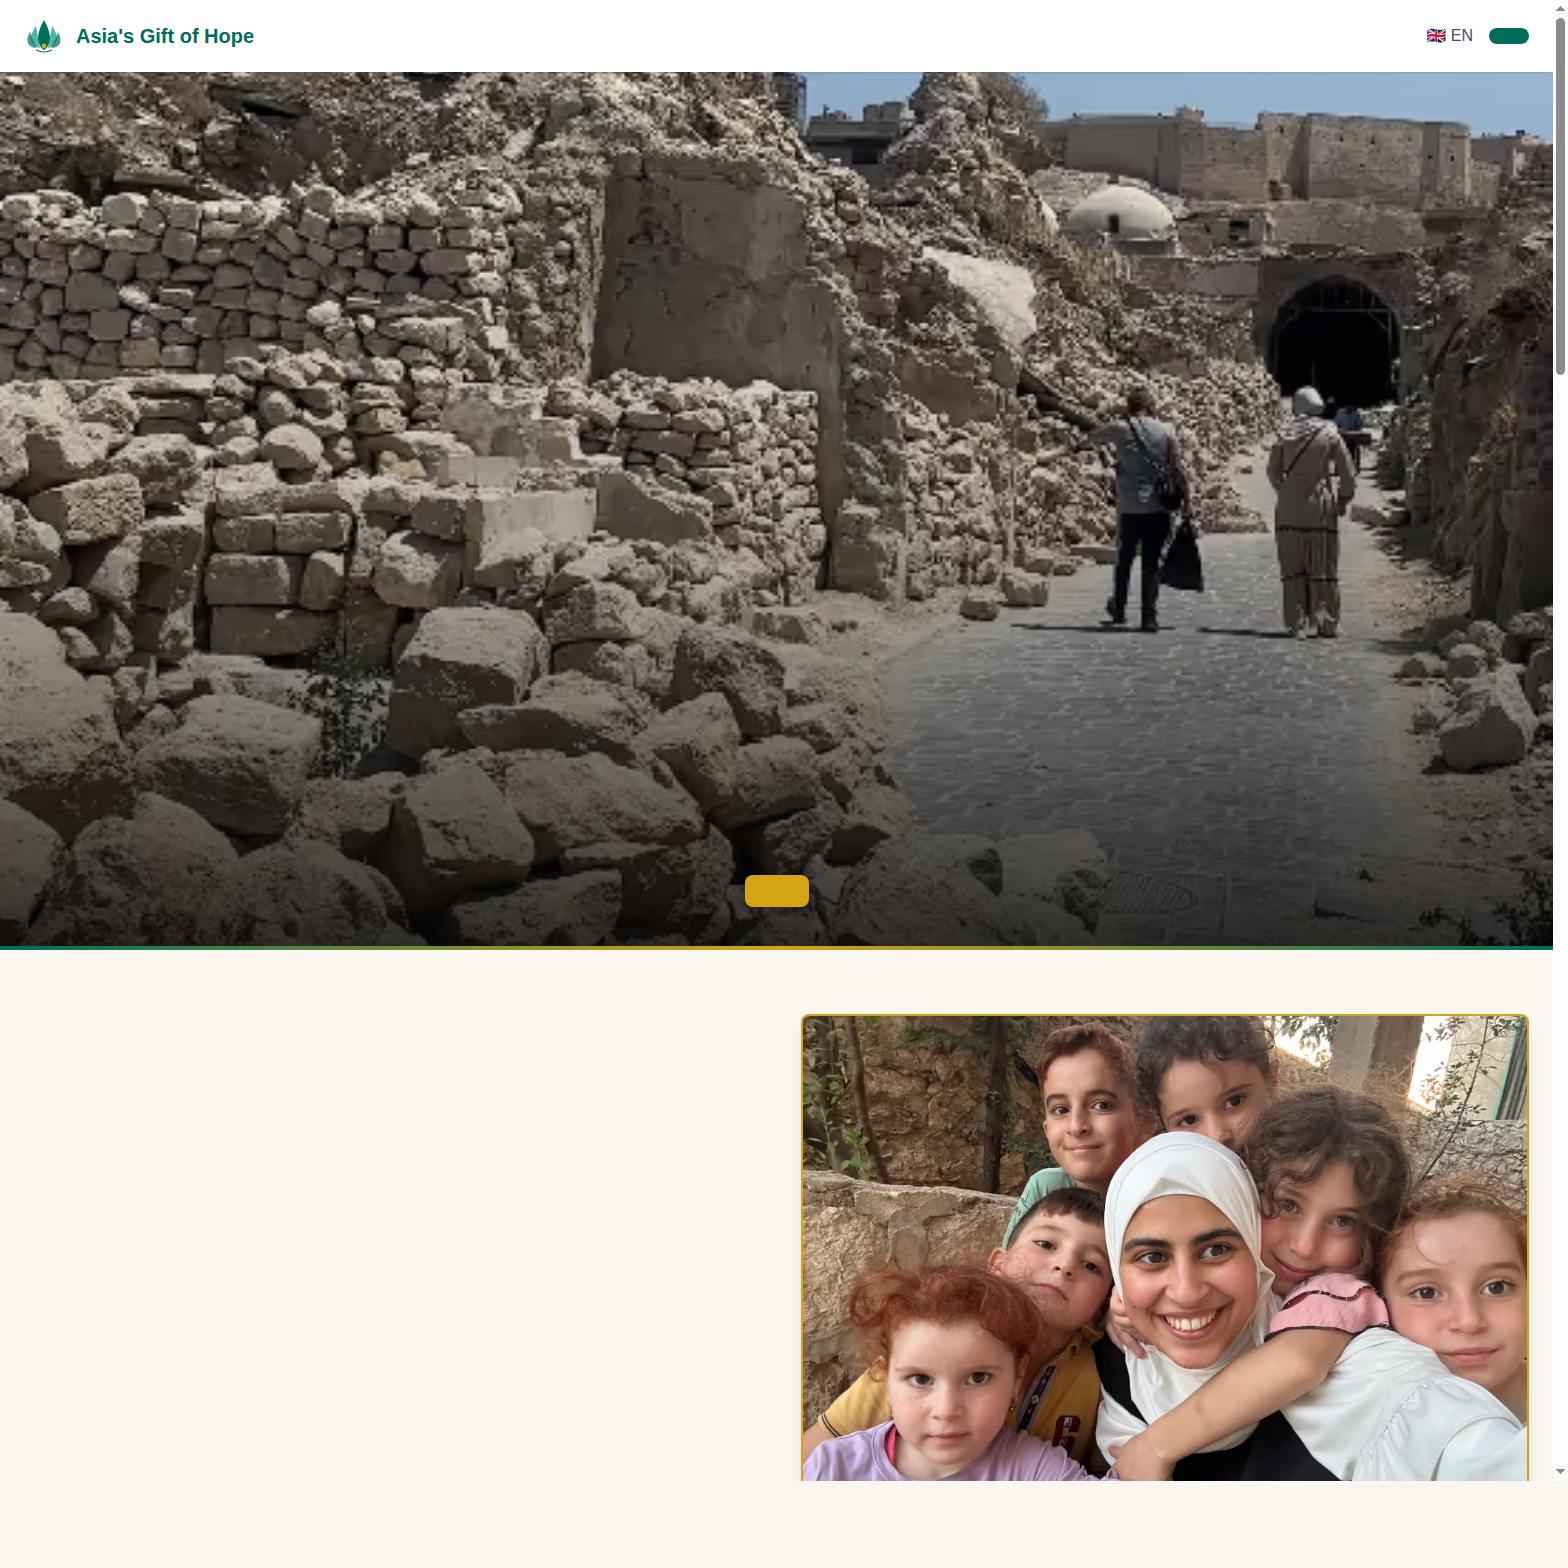
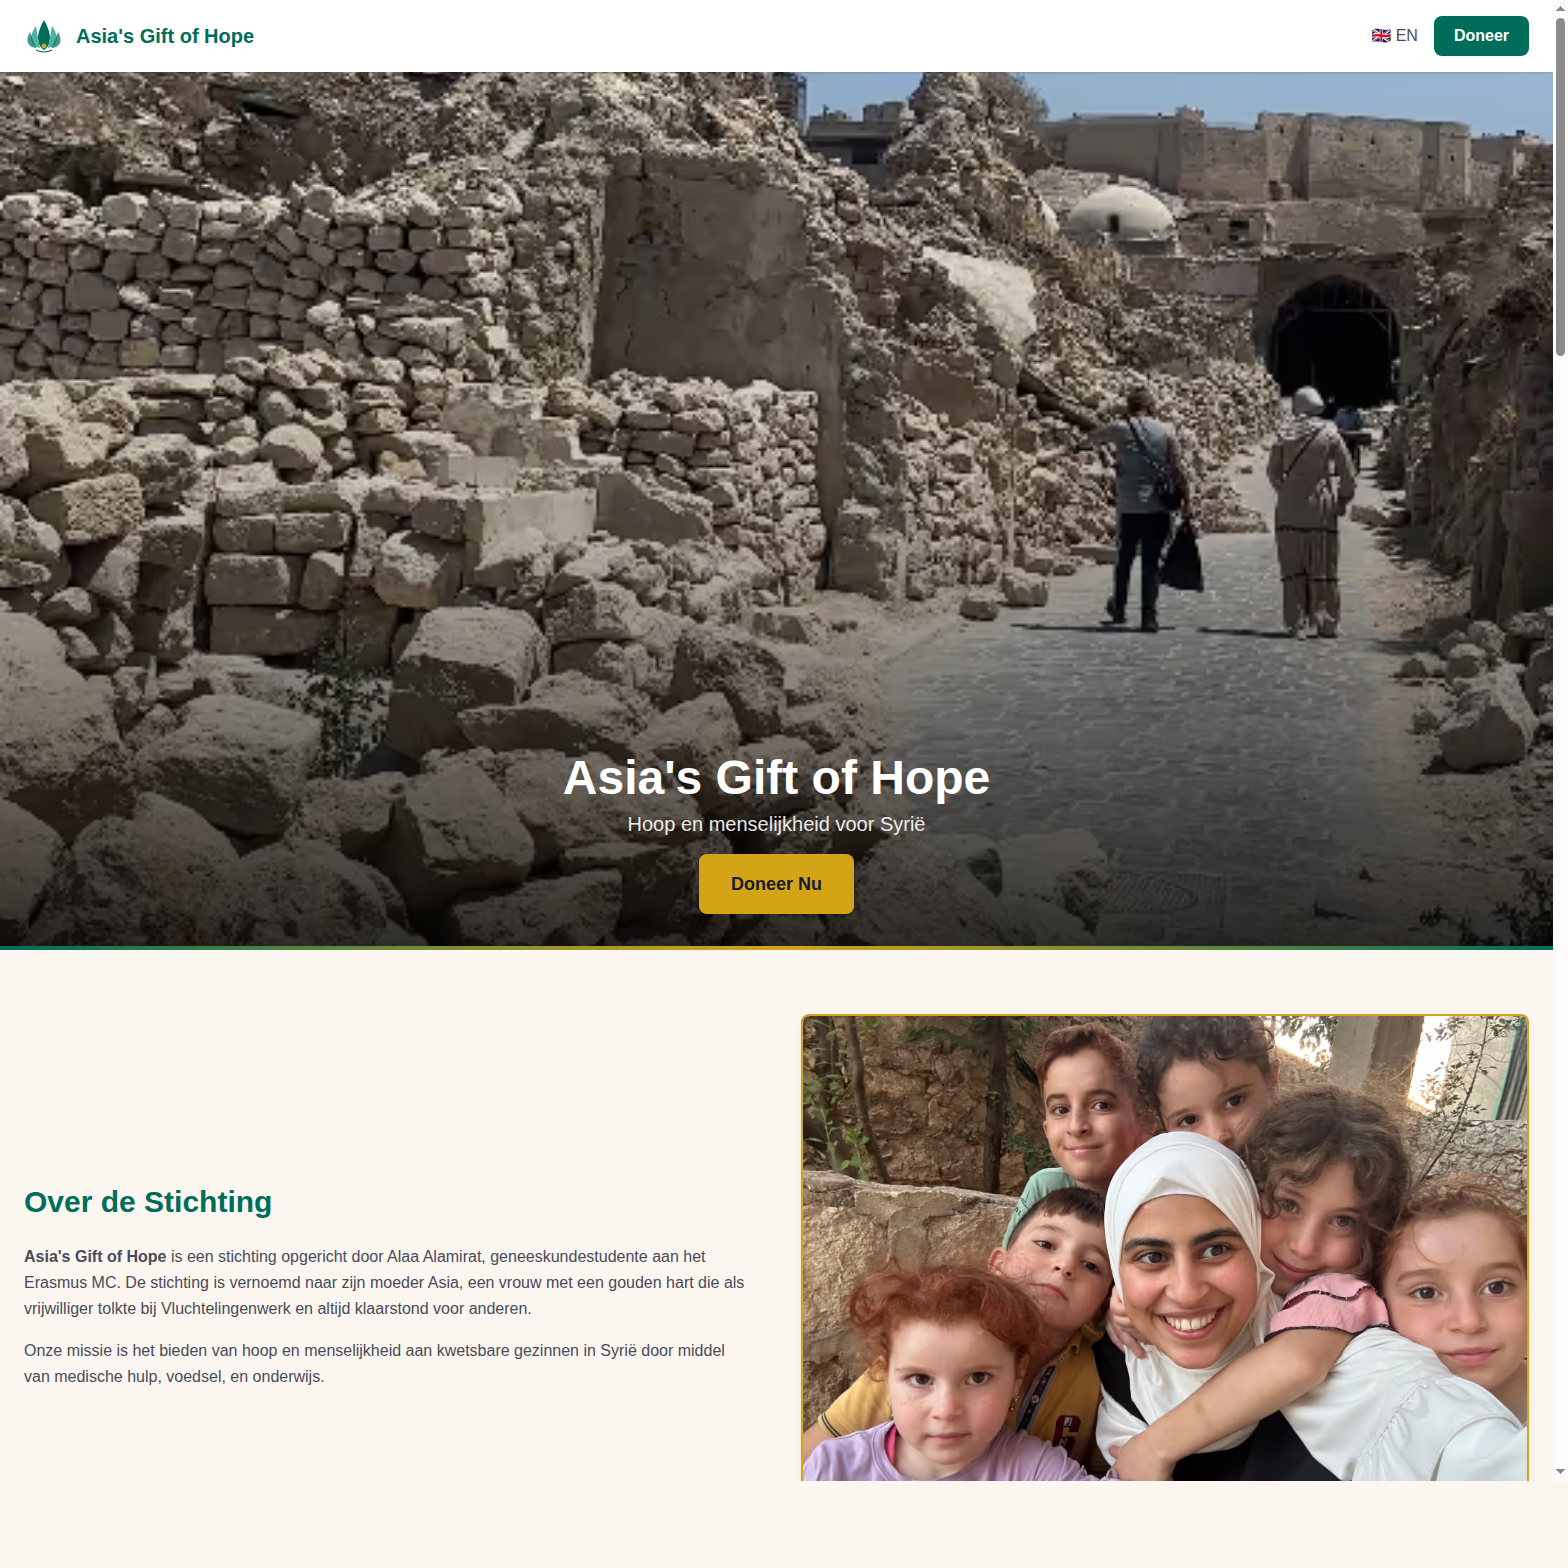
Fix i18n system - both languages now working
- Changed i18n.js to use readFileSync instead of import assertions
- Renamed nl.11tydata.js to src.11tydata.js for proper directory data
- Fixed permalink function to skip English pages
- Updated screenshots showing both languages working correctly
- Dutch: visible title, tagline and buttons
- English: visible title, tagline and buttons
- Language switcher functional in both versions

Changed region(s): [[0.0, 0.75, 0.4688, 0.9062], [0.3438, 0.4688, 0.625, 0.5938], [0.875, 0.0, 0.9688, 0.0625]]

diff --git a/src/_data/i18n.js b/src/_data/i18n.js
@@ -1,6 +1,14 @@
-// Import translation files
-import nl from './i18n/nl.json' with { type: 'json' };
-import en from './i18n/en.json' with { type: 'json' };
+// Import translation files using dynamic imports
+import { readFileSync } from 'fs';
+import { fileURLToPath } from 'url';
+import { dirname, join } from 'path';
+
+const __filename = fileURLToPath(import.meta.url);
+const __dirname = dirname(__filename);
+
+// Load translation files
+const nl = JSON.parse(readFileSync(join(__dirname, 'i18n/nl.json'), 'utf-8'));
+const en = JSON.parse(readFileSync(join(__dirname, 'i18n/en.json'), 'utf-8'));
 
 // Export all translations
 export default {

diff --git a/src/src.11tydata.js b/src/src.11tydata.js
@@ -3,6 +3,10 @@ export default {
   lang: 'nl',
   locale: 'nl-NL',
   permalink: function(data) {
+    // Skip English pages (they have their own permalink handling)
+    if (data.lang === 'en') {
+      return data.page.url;
+    }
     // Keep Dutch URLs at root level
     if (data.page.fileSlug === 'index') {
       return '/';
